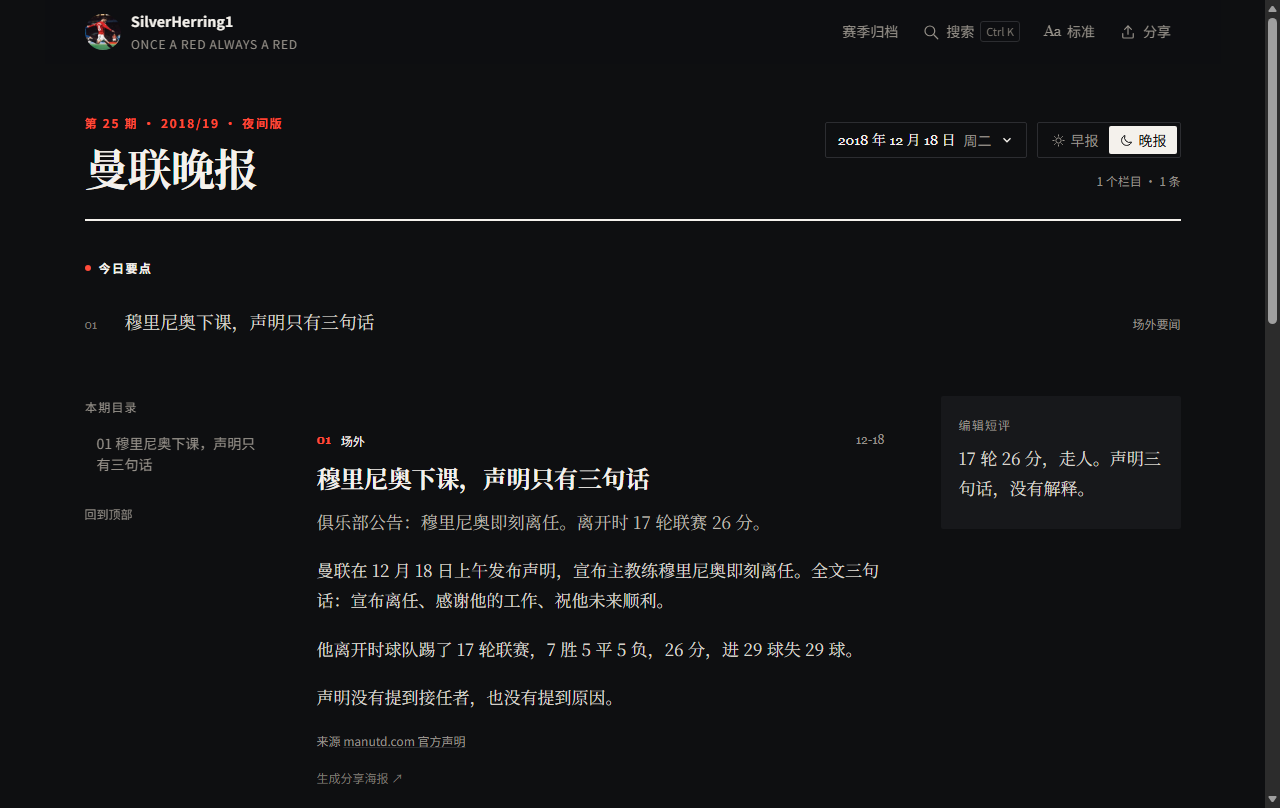
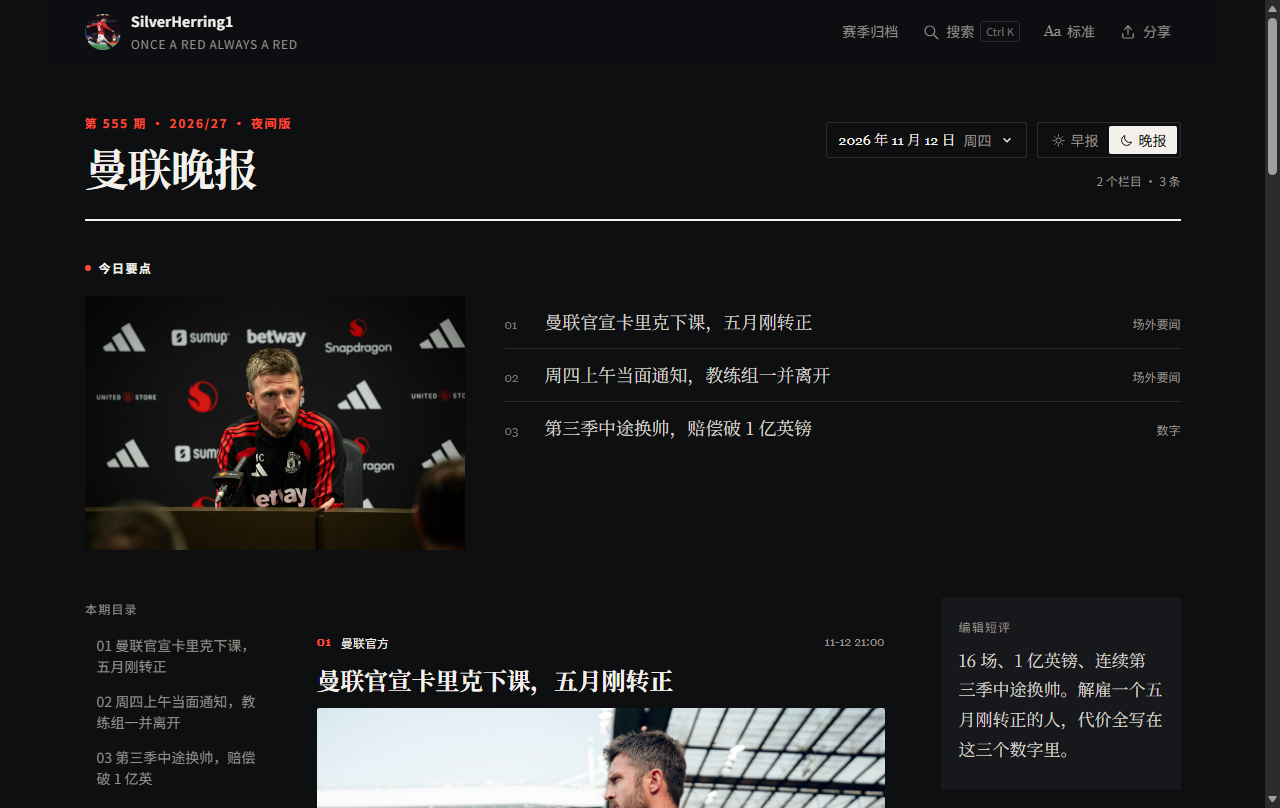
README 截图换新：早报用 554 期（老特拉福德航拍）、晚报用 555 期（官宣卡里克）

diff --git a/README.md b/README.md
@@ -6,13 +6,13 @@
 
 同一份内容，**早报是纸白、晚报是夜黑**——配色跟着时段走，不跟系统深色模式走。
 
-**早报 · 白天，浅色**
+**早报 · 白天，浅色**（第 554 期 · 2026-11-12）
 
-![早报](screenshot-morning.png?v=4)
+![早报](screenshot-morning.png?v=5)
 
-**晚报 · 夜间，深色**
+**晚报 · 夜间，深色**（第 555 期 · 2026-11-12）
 
-![晚报](screenshot-evening.png?v=4)
+![晚报](screenshot-evening.png?v=5)
 
 ---
 
